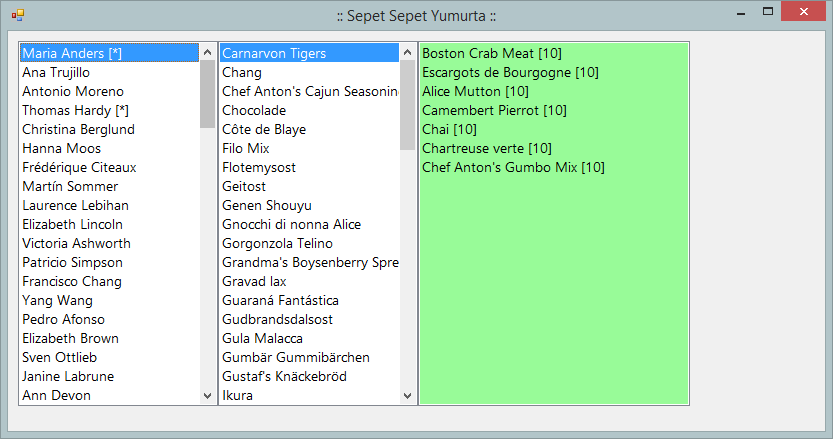
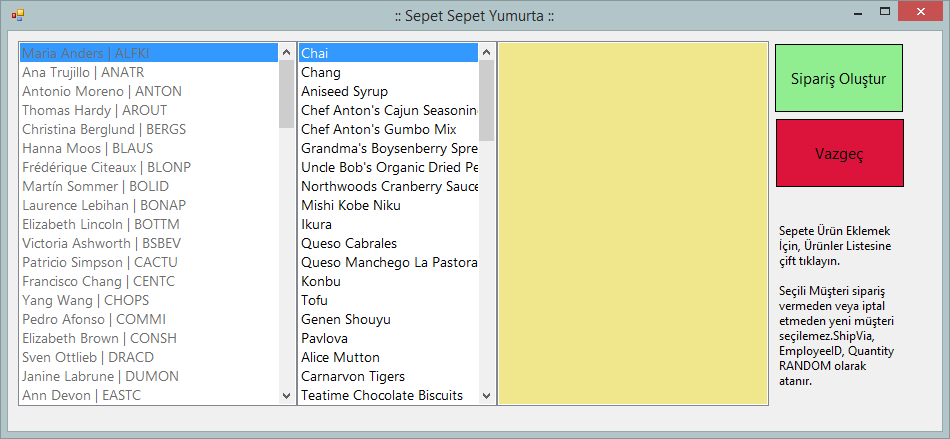
[UI] Small Mods

diff --git a/NorthWind-Sepet-Uygulamasi/GUI.Designer.cs b/NorthWind-Sepet-Uygulamasi/GUI.Designer.cs
@@ -88,8 +88,8 @@
             // 
             // label1
             // 
-            this.label1.BorderStyle = System.Windows.Forms.BorderStyle.FixedSingle;
-            this.label1.Font = new System.Drawing.Font("Segoe UI", 9.25F);
+            this.label1.FlatStyle = System.Windows.Forms.FlatStyle.Flat;
+            this.label1.Font = new System.Drawing.Font("Segoe UI", 8.75F);
             this.label1.Location = new System.Drawing.Point(768, 159);
             this.label1.Name = "label1";
             this.label1.Size = new System.Drawing.Size(127, 231);
@@ -114,7 +114,7 @@
             // 
             this.AutoScaleDimensions = new System.Drawing.SizeF(6F, 13F);
             this.AutoScaleMode = System.Windows.Forms.AutoScaleMode.Font;
-            this.ClientSize = new System.Drawing.Size(946, 400);
+            this.ClientSize = new System.Drawing.Size(934, 400);
             this.Controls.Add(this.btnVazgec);
             this.Controls.Add(this.label1);
             this.Controls.Add(this.btnSiparisOlustur);

diff --git a/NorthWind-Sepet-Uygulamasi/GUI.cs b/NorthWind-Sepet-Uygulamasi/GUI.cs
@@ -21,6 +21,8 @@ namespace NorthWind_Sepet_Uygulamasi
         {
             label1.Text = "Sepete Ürün Eklemek İçin, Ürünler Listesine çift tıklayın.\n\n";
             label1.Text += "Seçili Müşteri sipariş vermeden veya iptal etmeden yeni müşteri seçilemez.";
+            label1.Text += "ShipVia, EmployeeID, Quantity RANDOM olarak atanır.";
+
 
             uiInitCustomers();
             uiInitProducts();
